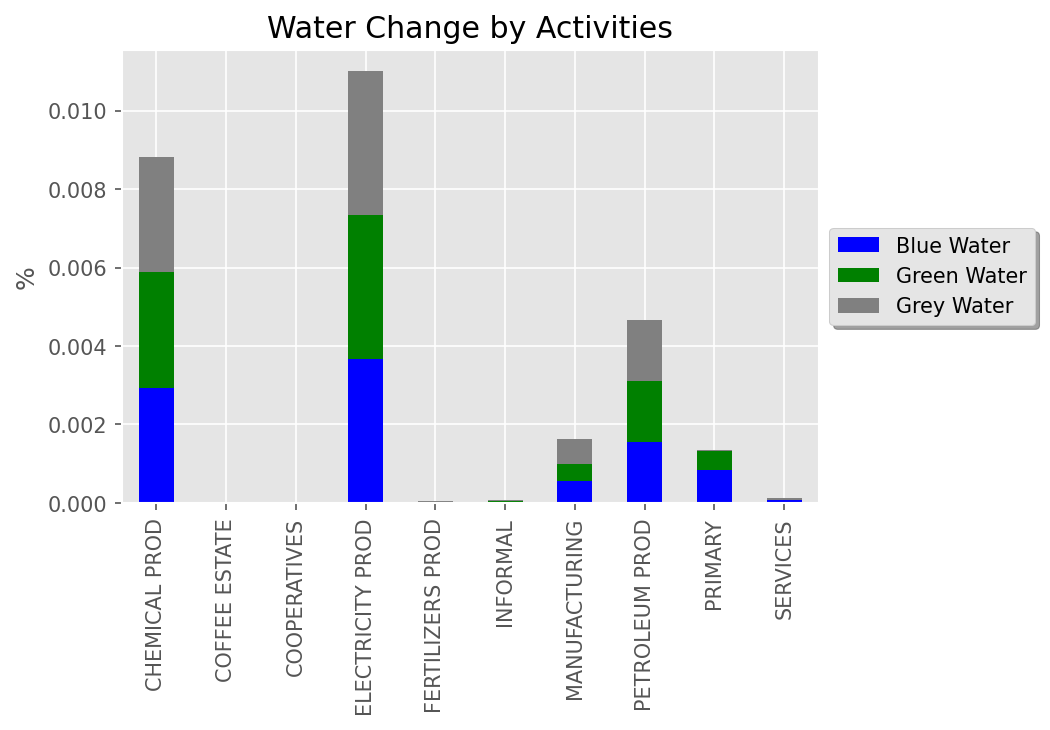
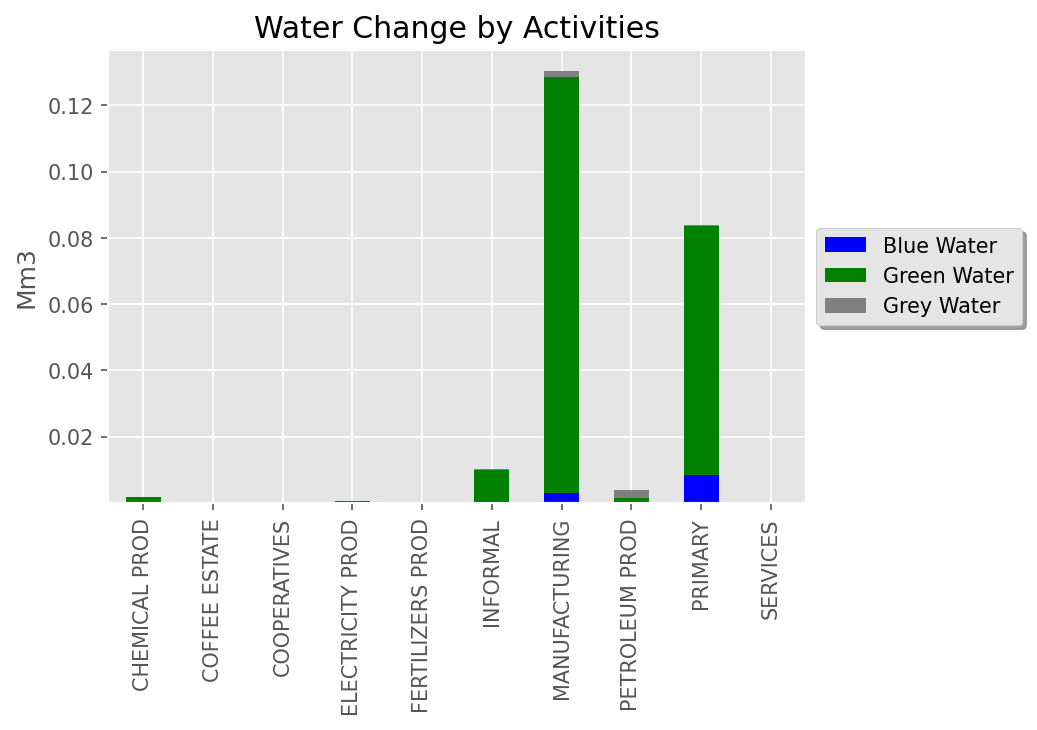
plot issues solved, unit of ds fixed automatically

diff --git a/CVX_Kenya/REP_CVX/functions/plots.py b/CVX_Kenya/REP_CVX/functions/plots.py
@@ -289,27 +289,28 @@ def delta_s(X_c,X,style,level,kind,title,ranshow,title_font,figsize,directory,fi
     # Implementing the plot style
     plt.style.use(style)   
 
-    print(X_c)
+
     if detail:
         # For the detailed case, more levels should be taken to show detailed information
-        X_c = X_c.loc[(slice(None),indicator),level].groupby(axis=[1,2],level=2).sum().groupby(axis=0,level=0).sum()
-        X   = X.loc[(slice(None),indicator),level].groupby(axis=1,level=[1,2]).sum().groupby(axis=0,level=0).sum()
+        X_c = X_c.loc[(slice(None),indicator),level].groupby(axis=1,level=[0,2]).sum().groupby(axis=0,level=0).sum()
+        X   = X.loc[(slice(None),indicator),level].groupby(axis=1,level=[0,2]).sum().groupby(axis=0,level=0).sum()
     else:
         # Otherwise, only the main level will be taken
-        X_c = X_c.loc[indicator,level].to_frame()
-        X   = X.loc[indicator,level].to_frame()
+        X_c = X_c.loc[indicator,level]
+        X   = X.loc[indicator,level]
 
     # defining the d_x matrix 
     if kind == 'Absolute': 
         # Here the unit won't be printed because there is not a single unit anymore
-        d_x,unit = (X_c - X),''#Units.loc[indicator].iloc[0].values.tolist()
-        print('The unit of the graph is the same of the database.')  
+        d_x,unit = (X_c - X),Units.loc[indicator].iloc[0].values.tolist()[0]
+
     else: d_x,unit = (X_c - X)/X * 100,'%'
 
     # if detail is True, we need to reindex it
     if detail:
         # Take only the first level of index
         d_x.index = d_x.index.get_level_values(0) 
+        d_x.columns = d_x.columns.get_level_values(1) 
 
     # Due to competutional errors, even in the case that one thing is not changed,
     # we may have very small differences 
@@ -342,8 +343,8 @@ def delta_s(X_c,X,style,level,kind,title,ranshow,title_font,figsize,directory,fi
         
     # Otherwise, we don't need to have legends, becuase ther is only one
     else:
-        try:    d_x.T.plot(kind = 'bar' , stacked = False,legend=False,colormap=color)
-        except: d_x.T.plot(kind = 'bar' , stacked = False,legend=False,color=color)
+        try:    d_x.plot(kind = 'bar' , stacked = False,legend=False,colormap=color)
+        except: d_x.plot(kind = 'bar' , stacked = False,legend=False,color=color)
     
     plt.title(title)  
     plt.ylabel(unit)
@@ -357,7 +358,7 @@ def delta_s(X_c,X,style,level,kind,title,ranshow,title_font,figsize,directory,fi
         with pd.ExcelWriter('{}\{}.xlsx'.format(directory,title)) as writer:
             d_x.to_excel(writer)    
             
-    return a
+
 
 def delta_p(X_c,X,style,level,title,title_font,figsize,directory,fig_format,color,ex_save):
     

diff --git a/CVX_Kenya/try.py b/CVX_Kenya/try.py
@@ -14,7 +14,7 @@ amin.shock_calc(path=r'Ecopulpers.xlsx',Y=True,Z=False,VA=False,S=False)
 #%%
 amin.sensitivity(path=r'Ecopulpers.xlsx')
 #%%
-amin.plot_ds(indicator='Water',kind='Percentage',color=['blue','green','grey'])
+amin.plot_ds(indicator='Water',color=['blue','green','grey'])
 #%%
 amin.impact_assess(saving_sce=['se',1],invest_sce=['sh',1],p_life=10)
 #%%
